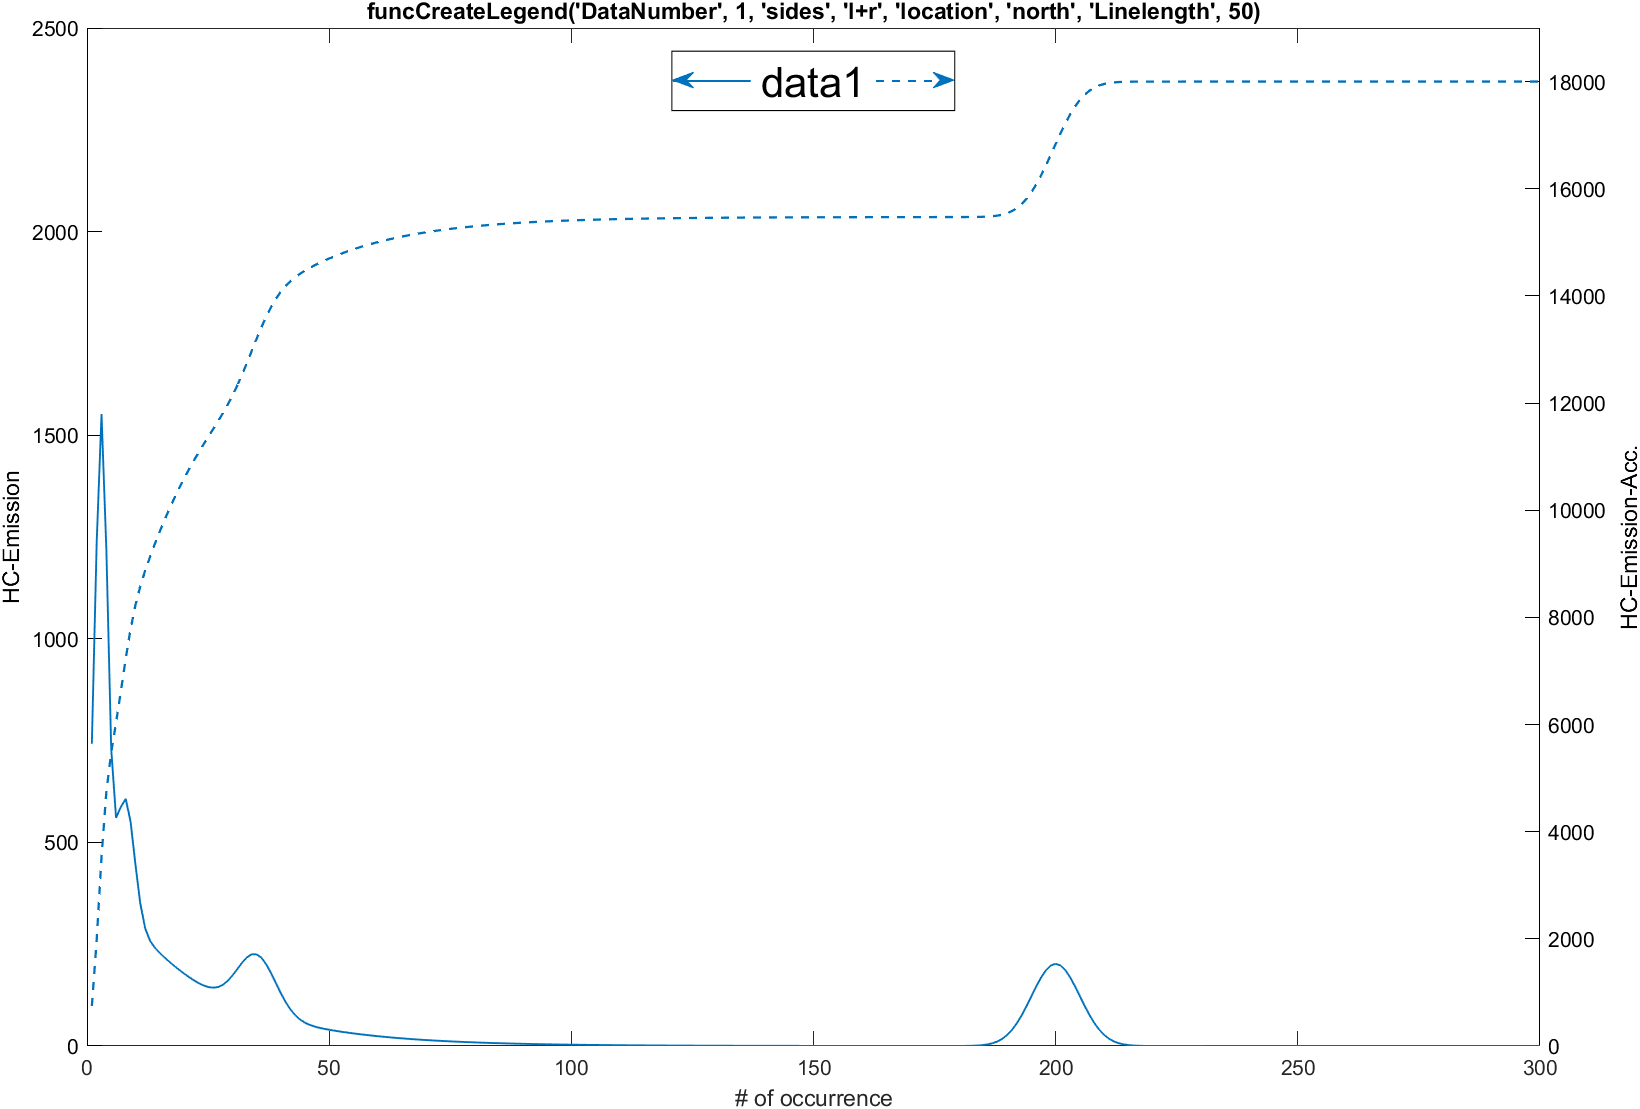
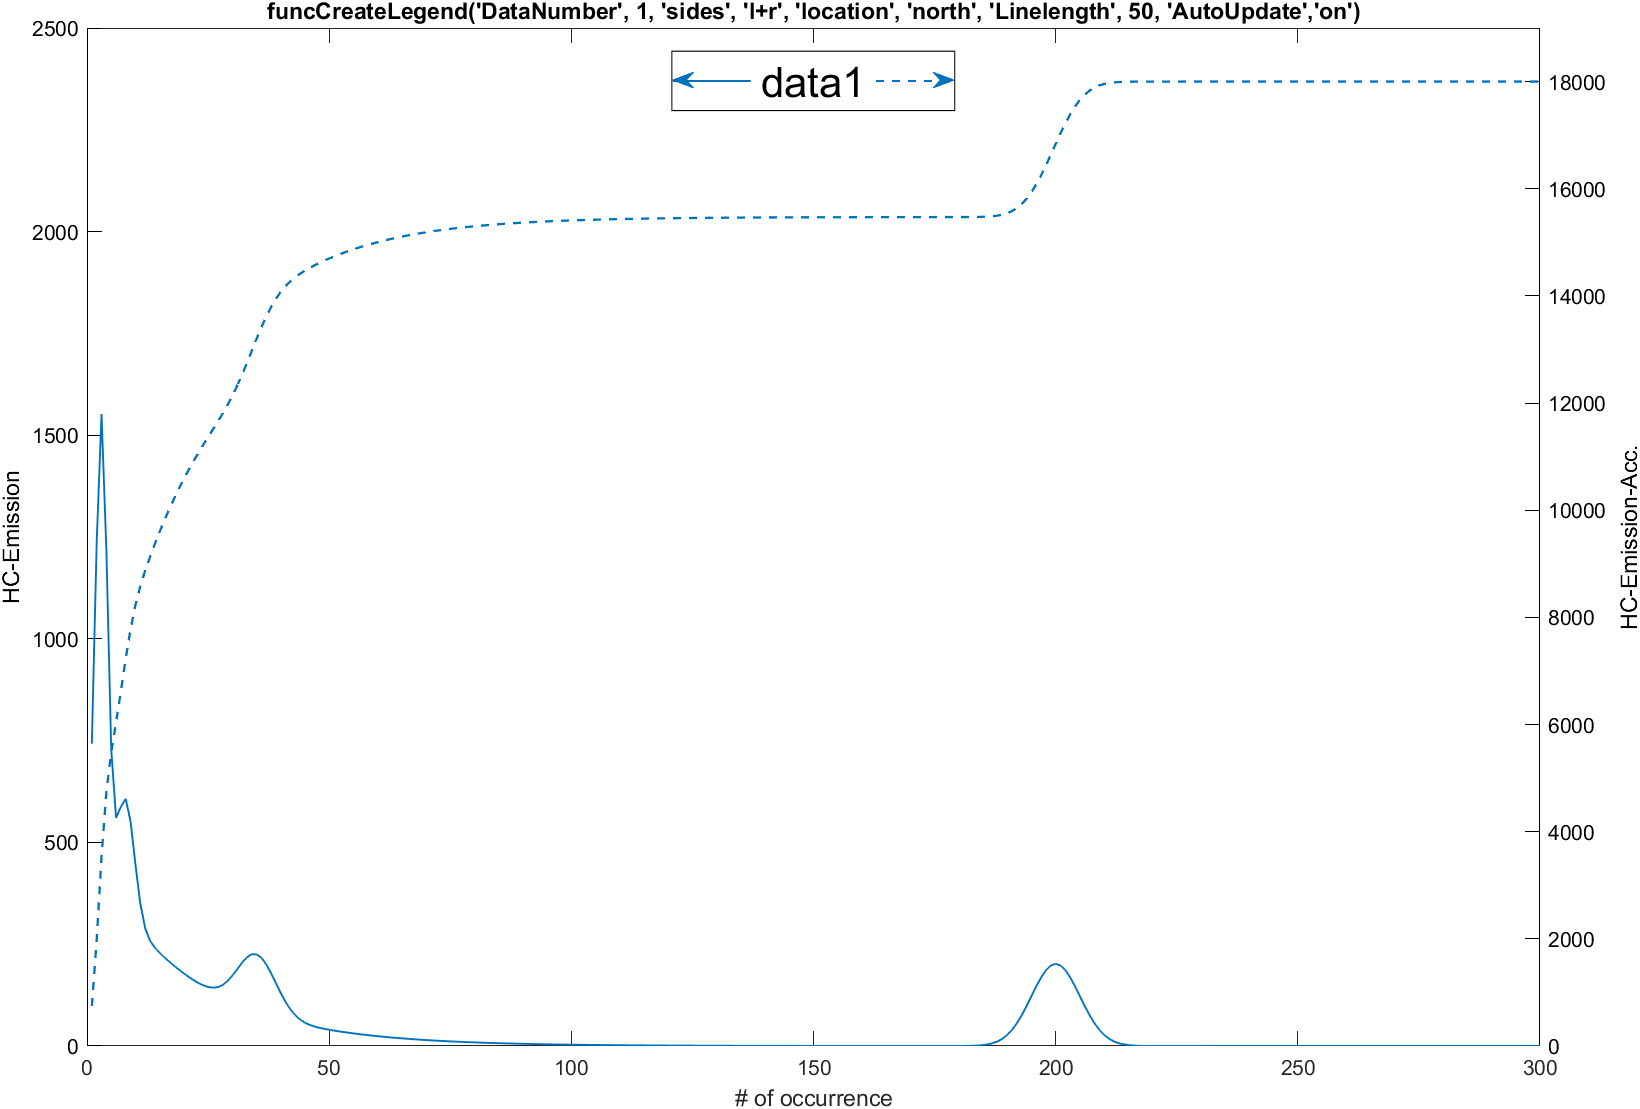
Resolvt issue https://github.com/TimS120/MatLab_Legend__Two_Sides/issues/3

Changed region(s): [[0.1555, 0.0, 0.8396, 0.0307]]

diff --git a/funcCreateLegend.m b/funcCreateLegend.m
@@ -310,6 +310,106 @@ function hLeg = funcCreateLegend(varargin)
     % store layout state needed for recomputation
     hLeg.state          = x;
     hLeg.line_thickness = nLineThickness;
+
+    % Store base metrics for optional auto-update
+    hLeg.figure         = ancestor(hAxis,'figure');
+    hLeg.auto.baseAxesWH     = [nPlotPos(3), nPlotPos(4)];
+    hLeg.auto.baseFontsize   = x.nFontsize;
+    hLeg.auto.baseLinelength = x.nLinelength;
+    hLeg.auto.baseAbsoffset  = x.nAbsoffset;
+    hLeg.auto.scaleAbs       = x.bScaleAbsOffset;
+
+    % Keep a live copy of the legend struct on the text object
+    setappdata(hLeg.text, 'CreateLegend_Handle', hLeg);
+
+    % Attach resize listener if requested
+    if isfield(x,'bAutoUpdate') && x.bAutoUpdate
+        local_attach_autoupdate(hLeg);
+    end
+end
+
+% =================== local helper: AutoUpdate wiring ======================
+function local_attach_autoupdate(hLeg)
+% Register this legend in the figure registry and hook SizeChangedFcn once.
+    fig = hLeg.figure;
+    if ~isgraphics(fig), return; end
+    reg = getappdata(fig, 'CreateLegend_AutoRegistry');
+    if isempty(reg)
+        reg = struct('text', {}, 'baseAxesW', {}, 'baseAxesH', {}, ...
+                     'baseFontsize', {}, 'baseLinelength', {}, ...
+                     'baseAbsOffset', {}, 'scaleAbs', {});
+    end
+    % Append (handles inside hLeg are references; storing the struct is OK)
+    entry.text          = hLeg.text;   % store handle, not struct
+    entry.baseAxesW     = hLeg.auto.baseAxesWH(1);
+    entry.baseAxesH     = hLeg.auto.baseAxesWH(2);
+    entry.baseFontsize  = hLeg.auto.baseFontsize;
+    entry.baseLinelength= hLeg.auto.baseLinelength;
+    entry.baseAbsOffset = hLeg.auto.baseAbsoffset;
+    entry.scaleAbs      = logical(hLeg.auto.scaleAbs);
+    reg(end+1) = entry; %#ok<AGROW>
+    setappdata(fig, 'CreateLegend_AutoRegistry', reg);
+
+    % Install dispatcher only once; chain any existing callback
+    if ~isappdata(fig,'CreateLegend_HookInstalled') || ~getappdata(fig,'CreateLegend_HookInstalled')
+        prevHook = get(fig,'SizeChangedFcn');
+        setappdata(fig,'CreateLegend_PrevSizeChangedFcn', prevHook);
+        set(fig,'SizeChangedFcn', @CreateLegend_SizeChangedDispatcher);
+        setappdata(fig,'CreateLegend_HookInstalled', true);
+    end
+end
+
+function CreateLegend_SizeChangedDispatcher(src, ~)
+% Dispatch figure resize to all registered legends (reflow + optional scale)
+    % 1) Call any previous user hook first (best effort)
+    prevHook = getappdata(src,'CreateLegend_PrevSizeChangedFcn');
+    if ~isempty(prevHook)
+        try
+            if isa(prevHook,'function_handle')
+                prevHook(src,[]);
+            else
+                feval(prevHook, src, []);
+            end
+        catch
+            % swallow errors from foreign hooks
+        end
+    end
+    % 2) Reflow registered legends
+    reg = getappdata(src,'CreateLegend_AutoRegistry');
+    if isempty(reg), return; end
+    for k = 1:numel(reg)
+        if ~isfield(reg(k),'text') || ~isgraphics(reg(k).text), continue; end
+        % Always fetch the current legend struct (latest state)
+        hL = getappdata(reg(k).text, 'CreateLegend_Handle');
+        if isempty(hL) || ~isstruct(hL) || ~isgraphics(hL.axes_handle) || ~isgraphics(hL.text)
+            continue;
+        end
+        % Current axes size in pixels
+        oldU = get(hL.axes_handle,'Units');
+        set(hL.axes_handle,'Units','pixels');
+        ap = get(hL.axes_handle,'Position');
+        set(hL.axes_handle,'Units', oldU);
+        w = max(1, ap(3));
+        % Scale factor (clamped for readability)
+        r  = max(0.4, min(2.5, w / max(1, reg(k).baseAxesW)));
+        ls = max(16, round(reg(k).baseLinelength * r));          % line length
+        fs = max(8,  round(reg(k).baseFontsize   * sqrt(r)));    % milder scaling
+        nv = {'Linelength', ls, 'Fontsize', fs};
+        % Optionally scale absolute offsets too
+        if reg(k).scaleAbs && isfield(hL,'state') && isfield(hL.state,'nPixelOffset') && hL.state.nPixelOffset == 1
+            newAbs = round(reg(k).baseAbsOffset .* [r, sqrt(r)]);
+            nv = [nv, {'Absoffset', newAbs}];
+        end
+        try
+            hL = funcUpdateLegend(hL, nv{:}); % reflow with new metrics
+            % Persist the latest struct for any future updates
+            if isgraphics(hL.text)
+                setappdata(hL.text, 'CreateLegend_Handle', hL);
+            end
+        catch
+            % Ignore transient errors during interactive resizes
+        end
+    end
 end
 
 function nPos = funcDeterminePos(nPosPlot, nLength, nHigh, nLineLength, nLineThickness, nPixelShift, szLocation, nAxisChoice)
@@ -465,6 +565,8 @@ function x = funcManageInput(vardata)
     nDefaultAbsOffset = [15,15];
     nDefaultPercOffset = [2,2];
     szDefaultLineStyle = ["-", "--"];
+    szDefaultAutoUpdate = 'off';
+    szDefaultScaleAbsOffset = 'off';
     nDefaultColorCode = {[0, 0.4470, 0.7410], [0.8500, 0.3250, 0.0980], [0.9290, 0.6940, 0.1250]...
         [0.4940, 0.1840, 0.5560], [0.4660, 0.6740, 0.1880], [0.3010, 0.7450, 0.9330], [0.6350, 0.0780, 0.1840]};
     nDefaultDataNumber = length(findall(gca,'type','line'));  % Number of the datasets
@@ -482,6 +584,8 @@ function x = funcManageInput(vardata)
     addOptional(p, 'percoffset', nDefaultPercOffset);
     addOptional(p, 'linestyle', szDefaultLineStyle);
     addOptional(p, 'colors', nDefaultColorCode);
+    addOptional(p, 'autoupdate', szDefaultAutoUpdate);
+    addOptional(p, 'scaleabsoffset', szDefaultScaleAbsOffset);
     addOptional(p, 'datanumber', nDefaultDataNumber);
     parse(p, vardata{:});
 
@@ -499,6 +603,8 @@ function x = funcManageInput(vardata)
     x.nPercoffset = p.Results.percoffset;
     x.szLinestyle = p.Results.linestyle;
     x.nColors = p.Results.colors;
+    x.szAutoupdate = p.Results.autoupdate;
+    x.szScaleabsoffset = p.Results.scaleabsoffset;
     x.nDataNumber = p.Results.datanumber;
 
     % Conversion of the entire string/char-input into (lowercase-) strings
@@ -509,6 +615,8 @@ function x = funcManageInput(vardata)
     x.szFontname = lower(convertCharsToStrings(x.szFontname));
     x.szArrows = lower(convertCharsToStrings(x.szArrows));
     x.szLinestyle = lower(convertCharsToStrings(x.szLinestyle));
+    x.szAutoupdate = lower(string(x.szAutoupdate));
+    x.szScaleabsoffset = lower(string(x.szScaleabsoffset));
 
     % Validation of the input settings
     nFieldLength = length(fieldnames(x));
@@ -583,6 +691,22 @@ function x = funcManageInput(vardata)
             x.bArrowsOn = 1;
         end
     end
+
+    % AutoUpdate / ScaleAbsOffset flags
+    if strcmp(x.szAutoupdate,"on")
+        x.bAutoUpdate = true;
+    elseif strcmp(x.szAutoupdate,"off")
+        x.bAutoUpdate = false;
+    else
+        error("Wrong AutoUpdate choice! Use 'on' or 'off'.");
+    end
+    if strcmp(x.szScaleabsoffset,"on")
+        x.bScaleAbsOffset = true;
+    elseif strcmp(x.szScaleabsoffset,"off")
+        x.bScaleAbsOffset = false;
+    else
+        error("Wrong ScaleAbsOffset choice! Use 'on' or 'off'.");
+    end
 end
 
 function bOut = funcValidation(x, szFunction, nNumberData)
@@ -655,6 +779,12 @@ function bOut = funcValidation(x, szFunction, nNumberData)
 
     elseif(strcmp(szFunction, "nDataNumber"))
         bOut = isnumeric(x) && x>0;
+
+     elseif(strcmp(szFunction, "szAutoupdate"))
+         bOut = isstring(x) && sum(ismember(x, ["on","off"])>0);
+ 
+     elseif(strcmp(szFunction, "szScaleabsoffset"))
+         bOut = isstring(x) && sum(ismember(x, ["on","off"])>0);
 
     else
         error("Wrong attribute!");

diff --git a/make_hc_emission_plot.m b/make_hc_emission_plot.m
@@ -67,10 +67,12 @@ plot(ax, x, y2, "--", "LineWidth", 1.1, "Color", blue);
 yyaxis(ax, "left");
 setup_axes(ax, n, y1_label, y2_label, xlabel_text);
 
-t = "funcCreateLegend('DataNumber', 1, 'sides', 'l+r', 'location', 'north', 'Linelength', 50)";
+t = "funcCreateLegend('DataNumber', 1, 'sides', 'l+r', 'location', 'north', 'Linelength', 50, 'AutoUpdate','on')";
 title(ax, t, "Interpreter", "none");
 % Use a cell array for the actual argument; title shows the exact string.
-hLeg = funcCreateLegend("DataNumber", 1, "sides", "l+r", "location", "north", "Linelength", 50, "Linestyle", ["-", "--"]);
+hLeg = funcCreateLegend("DataNumber", 1, "sides", "l+r", "location", "north", ...
+                        "Linelength", 50, "Linestyle", ["-", "--"], ...
+                        "AutoUpdate", "on");  % auto reflow on resize
 
 exportgraphics(f, fullfile(this_dir, "Example3.png"));
 
@@ -83,7 +85,7 @@ hLeg = funcUpdateLegend( ...
 );
 
 % Update the title to document the applied funcUpdateLegend settings
-u = "funcUpdateLegend('location','northwest','Percoffset',[5,5], 'Linelength',70";
+u = "funcUpdateLegend('location','northwest','Percoffset',[5,5],'Linelength',70)";
 title(ax, u, "Interpreter", "none");
 exportgraphics(f, fullfile(this_dir, "Example3_1.png"));
 

diff --git a/funcUpdateLegend.m b/funcUpdateLegend.m
@@ -223,6 +223,11 @@ function hLeg = funcUpdateLegend(hLeg, varargin)
 
     % Persist updated state and return
     hLeg.state = x;
+
+    % Persist updated state into the text object's appdata so auto-update sees it
+    if isgraphics(hLeg.text)
+        setappdata(hLeg.text, 'CreateLegend_Handle', hLeg);
+    end
 end
 
 % =================== local helper (geometry) ==============================

diff --git a/README.md b/README.md
@@ -21,7 +21,7 @@
 
 ## Overview
 
-`funcCreateLegend` adds a single legend box to MATLAB figures using two y-axes, with clear left/right indicators (and optional arrows). Ideal when you plot:
+`funcCreateLegend` adds a single legend box to MATLAB figures using two y-axes, with clear left/right indicators (and optional arrows). It can also **auto-reflow** on window resize (`'AutoUpdate','on'`). Ideal when you plot:
 
 - Left axis: time-series measurement  
 - Right axis: cumulative or secondary value  
@@ -74,6 +74,8 @@ funcCreateLegend( ...
 | `Percoffset`  | `[x,y]` (%)       | `[2, 2]`                       | Offset as % of axes width/height. Not allowed together with `Absoffset`. |
 | `Linestyle`   | `string[2]`       | `["-","--"]`                   | Override indicator line styles for left and right axes. |
 | `Colors`      | `cell{[r g b]}`   | MATLAB default line colors     | Colors for each dataset, values between 0 and 1. |
+| `AutoUpdate`  | `"on"|"off"`      | `"off"`                        | If `"on"`, the legend automatically repositions (and can rescale) when the figure is resized. |
+| `ScaleAbsOffset` | `"on"|"off"`   | `"off"`                        | When using `Absoffset`, scale the pixel offset with the figure size during `AutoUpdate`. |
 
 ## Examples
 The script `make_hc_emission_plot.m` demonstrates five configurations and saves PNGs in resources/:
@@ -84,5 +86,5 @@ The script `make_hc_emission_plot.m` demonstrates five configurations and saves 
 - Example 5: Linestyle Override
 
 ## Additional
-Please feel free to use this function and if you have an improvement proposal then let me know about it.
+Please feel free to use this functions and if you have an improvement then either create a pull request or let me know about it.
 I hope this helps someone.
